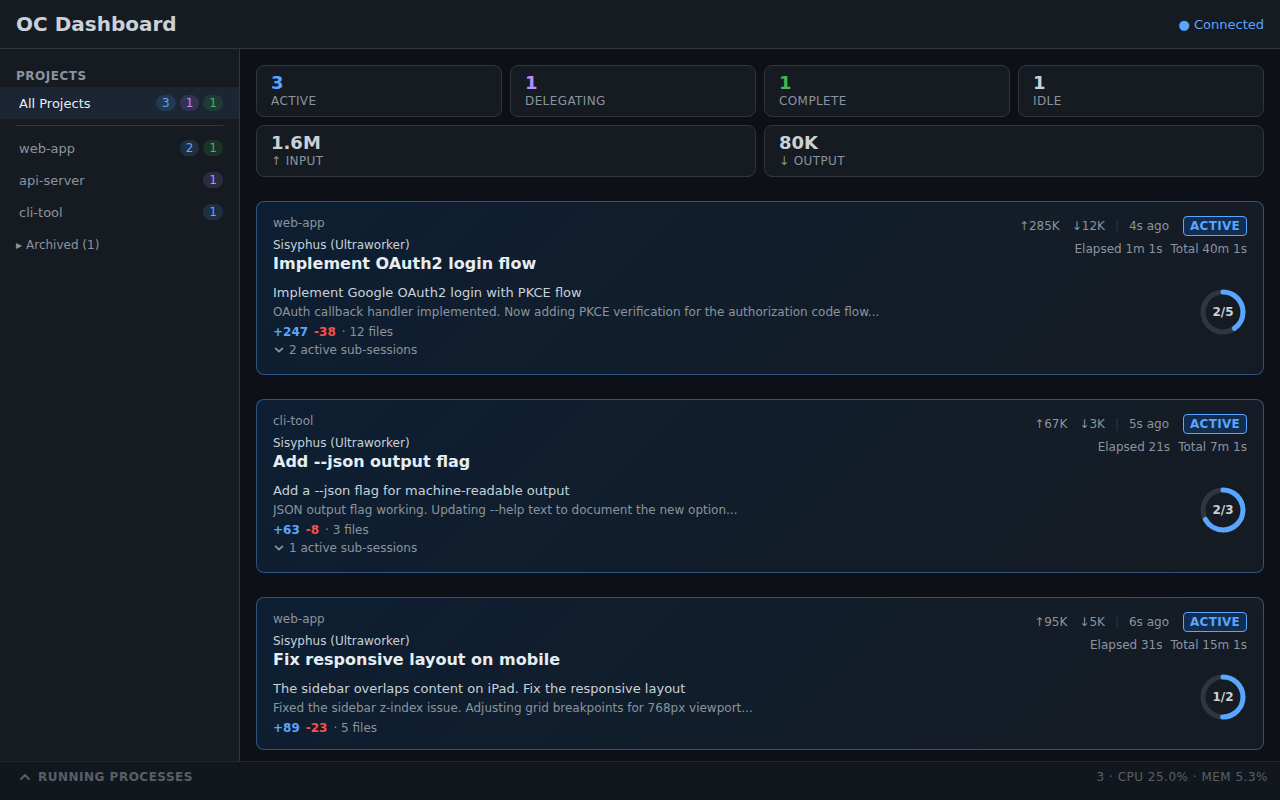
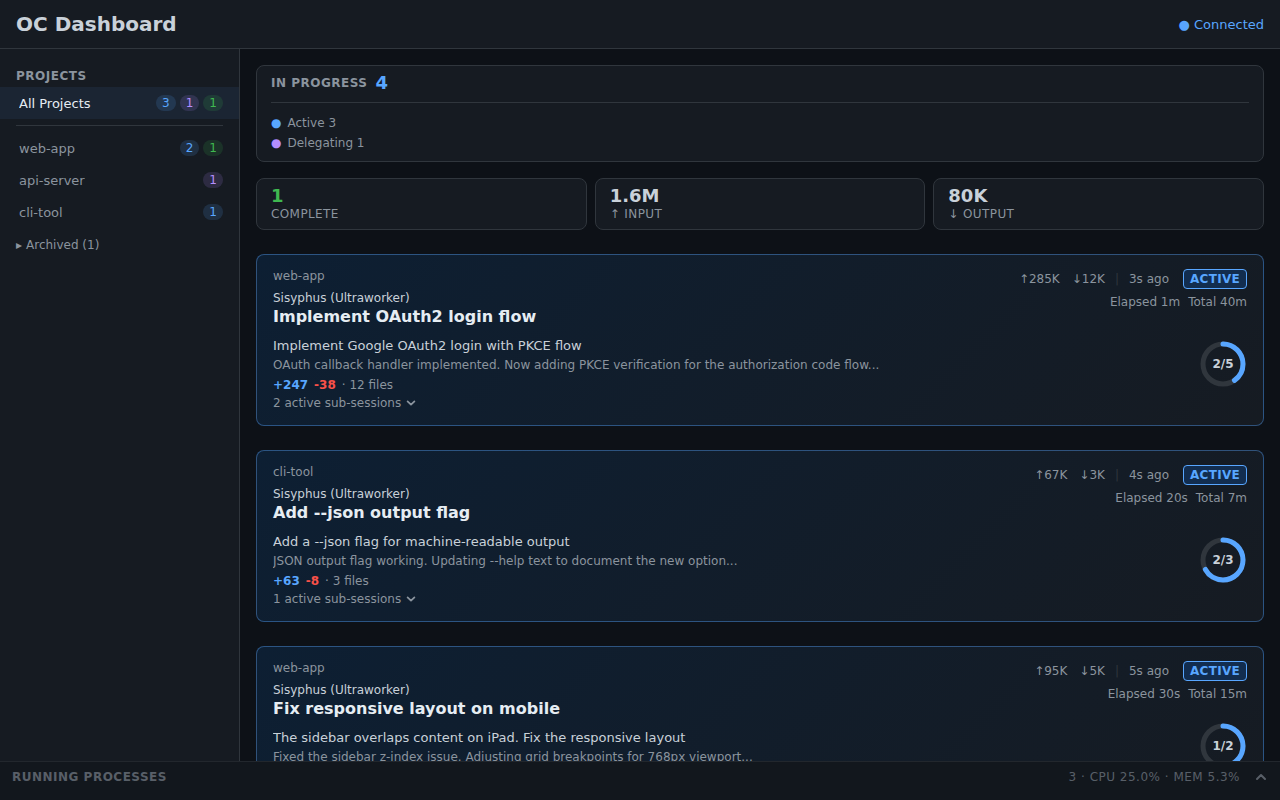
feat: summary 패널 In Progress 통합 카드 + UI 개선
- ACTIVE/DELEGATING/WAITING을 'In Progress' 단일 카드로 통합
  - 합산 카운트 표시, 하위 상태는 breakdown으로 상시 표시
  - IDLE 카드 제거

- 전체 chevron 위치 통일
  - sub-agent badge: 텍스트 바로 우측
  - Running Processes: 헤더 우측 끝 (summary 옆)

- README 스크린샷 업데이트 (데스크톱 + 모바일)

diff --git a/public/index.html b/public/index.html
@@ -154,6 +154,61 @@
       margin-bottom: 12px;
     }
 
+    /* active card (collapsible status summary) */
+    .active-card {
+      background: var(--card);
+      border: 1px solid var(--card-border);
+      border-radius: 8px;
+      padding: 8px 14px;
+      margin-bottom: 8px;
+    }
+    .active-card.has-substates { cursor: pointer; -webkit-tap-highlight-color: transparent; }
+    .active-card-header {
+      display: flex;
+      align-items: center;
+      justify-content: space-between;
+    }
+    .active-card-label {
+      display: flex;
+      align-items: center;
+      gap: 8px;
+    }
+    .active-card-label .stat-label {
+      text-transform: uppercase;
+      letter-spacing: 0.5px;
+      font-weight: 600;
+    }
+    .active-card-label .stat-value {
+      font-size: 18px;
+    }
+    .active-card-chevron {
+      color: var(--text-muted);
+      transition: transform 0.25s ease;
+      flex-shrink: 0;
+    }
+    .active-card.expanded .active-card-chevron { transform: rotate(180deg); }
+    .active-card-breakdown {
+      max-height: 0;
+      overflow: hidden;
+      opacity: 0;
+      transition: max-height 0.25s ease, opacity 0.2s ease;
+    }
+    .active-card.expanded .active-card-breakdown {
+      max-height: 120px;
+      opacity: 1;
+      margin-top: 10px;
+      padding-top: 10px;
+      border-top: 1px solid var(--card-border);
+    }
+    .active-breakdown-line {
+      display: flex;
+      align-items: center;
+      gap: 6px;
+      padding: 3px 0;
+      font-size: 12px;
+      color: var(--text-muted);
+    }
+
     .summary-row {
       display: grid;
       gap: 8px;
@@ -870,8 +925,11 @@
 
   <section class="process-panel" id="process-panel">
     <div class="section-label process-panel-header" id="process-header">
-      <span style="display:flex;align-items:center;gap:6px"><svg class="process-panel-chevron" width="14" height="14" viewBox="0 0 14 14" fill="none" stroke="currentColor" stroke-width="2" stroke-linecap="round" stroke-linejoin="round"><polyline points="3,5 7,9 11,5"/></svg>Running Processes</span>
-      <span class="process-summary" id="process-summary"></span>
+      <span>Running Processes</span>
+      <span style="display:flex;align-items:center;gap:8px">
+        <span class="process-summary" id="process-summary"></span>
+        <svg class="process-panel-chevron" width="14" height="14" viewBox="0 0 14 14" fill="none" stroke="currentColor" stroke-width="2" stroke-linecap="round" stroke-linejoin="round"><polyline points="3,5 7,9 11,5"/></svg>
+      </span>
     </div>
     <div class="process-panel-inner" id="process-list">
       <span class="empty-state">No running processes</span>
@@ -1043,7 +1101,7 @@
       const delegatingCount = filtered.filter(s => delegatingSet.has(s.id) && !waitingSet.has(s.id)).length;
       const activeCount = filtered.filter(s => s.status === 'ACTIVE' && !waitingSet.has(s.id) && !delegatingSet.has(s.id)).length;
       const recentCount = filtered.filter(s => s.status === 'RECENT' && !delegatingSet.has(s.id)).length;
-      const idleCount = filtered.filter(s => s.status === 'IDLE' && !delegatingSet.has(s.id)).length;
+
 
       let totalInput = 0, totalOutput = 0;
       for (const s of filtered) {
@@ -1051,22 +1109,30 @@
         if (t) { totalInput += t.totalInput; totalOutput += t.totalOutput; }
       }
 
-      const statusCards = [
-        { value: activeCount, label: 'Active', color: activeCount > 0 ? 'var(--active)' : '', always: true },
-        { value: waitingCount, label: 'Waiting', color: '#f0a030', always: false },
-        { value: delegatingCount, label: 'Delegating', color: '#b48eff', always: false },
-        { value: recentCount, label: 'Complete', color: recentCount > 0 ? 'var(--recent)' : '', always: true },
-        { value: idleCount, label: 'Idle', color: '', always: true },
-      ].filter(c => c.always || c.value > 0);
+      const totalActive = activeCount + delegatingCount + waitingCount;
+      const hasSubStates = delegatingCount > 0 || waitingCount > 0;
+
+      // active breakdown lines (shown when expanded)
+      const breakdownLines = [];
+      if (activeCount > 0) breakdownLines.push(`<div class="active-breakdown-line"><span style="color:var(--active)">●</span> Active ${activeCount}</div>`);
+      if (delegatingCount > 0) breakdownLines.push(`<div class="active-breakdown-line"><span style="color:#b48eff">●</span> Delegating ${delegatingCount}</div>`);
+      if (waitingCount > 0) breakdownLines.push(`<div class="active-breakdown-line"><span style="color:#f0a030">●</span> Waiting ${waitingCount}</div>`);
 
       panel.innerHTML = `
-        <div class="summary-row">
-          ${statusCards.map(c => `<div class="stat-card">
-            <span class="stat-value"${c.color ? ` style="color:${c.color}"` : ''}>${c.value}</span>
-            <span class="stat-label">${c.label}</span>
-          </div>`).join('')}
+        <div class="active-card expanded">
+          <div class="active-card-header">
+            <span class="active-card-label">
+              <span class="stat-label">In Progress</span>
+              <span class="stat-value" ${totalActive > 0 ? 'style="color:var(--active)"' : ''}>${totalActive}</span>
+            </span>
+          </div>
+          ${hasSubStates ? `<div class="active-card-breakdown">${breakdownLines.join('')}</div>` : ''}
         </div>
         <div class="summary-row">
+          ${recentCount > 0 ? `<div class="stat-card">
+            <span class="stat-value" style="color:var(--recent)">${recentCount}</span>
+            <span class="stat-label">Complete</span>
+          </div>` : ''}
           <div class="stat-card">
             <span class="stat-value">${formatNumber(totalInput)}</span>
             <span class="stat-label">↑ Input</span>
@@ -1165,6 +1231,7 @@
     }
 
     let processesCollapsed = true;
+
 
     function renderProcesses(processes) {
       const panel = document.getElementById('process-list');
@@ -1389,7 +1456,7 @@
       if (session.subAgentCount > 0) {
         const isExpanded = expandedSubAgents.has(session.id);
         const chevronSvg = `<svg class="sub-agent-chevron${isExpanded ? ' expanded' : ''}" width="12" height="12" viewBox="0 0 14 14" fill="none" stroke="currentColor" stroke-width="2" stroke-linecap="round" stroke-linejoin="round"><polyline points="3,5 7,9 11,5"/></svg>`;
-        badgeHtml = `<span class="sub-agent-badge" onclick="toggleSubAgents('${escHtml(session.id)}')" data-session-id="${escHtml(session.id)}">${chevronSvg} ${session.subAgentCount} active sub-sessions</span>`;
+        badgeHtml = `<span class="sub-agent-badge" onclick="toggleSubAgents('${escHtml(session.id)}')" data-session-id="${escHtml(session.id)}">${session.subAgentCount} active sub-sessions ${chevronSvg}</span>`;
       } else {
         // subagent 완료 시 expanded 상태 및 캐시 자동 정리
         expandedSubAgents.delete(session.id);
